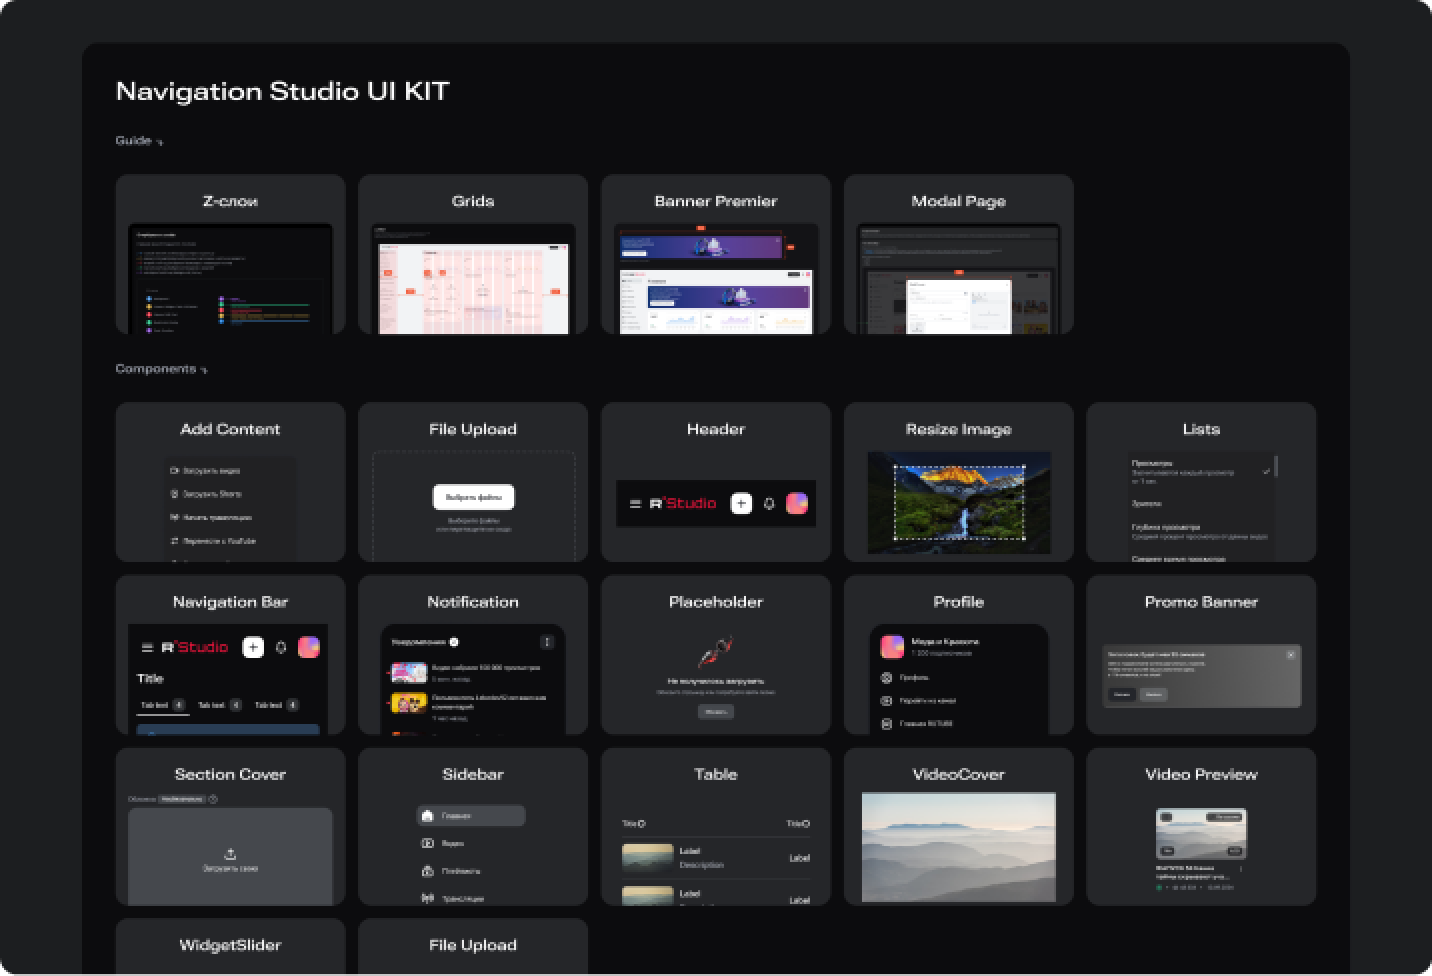
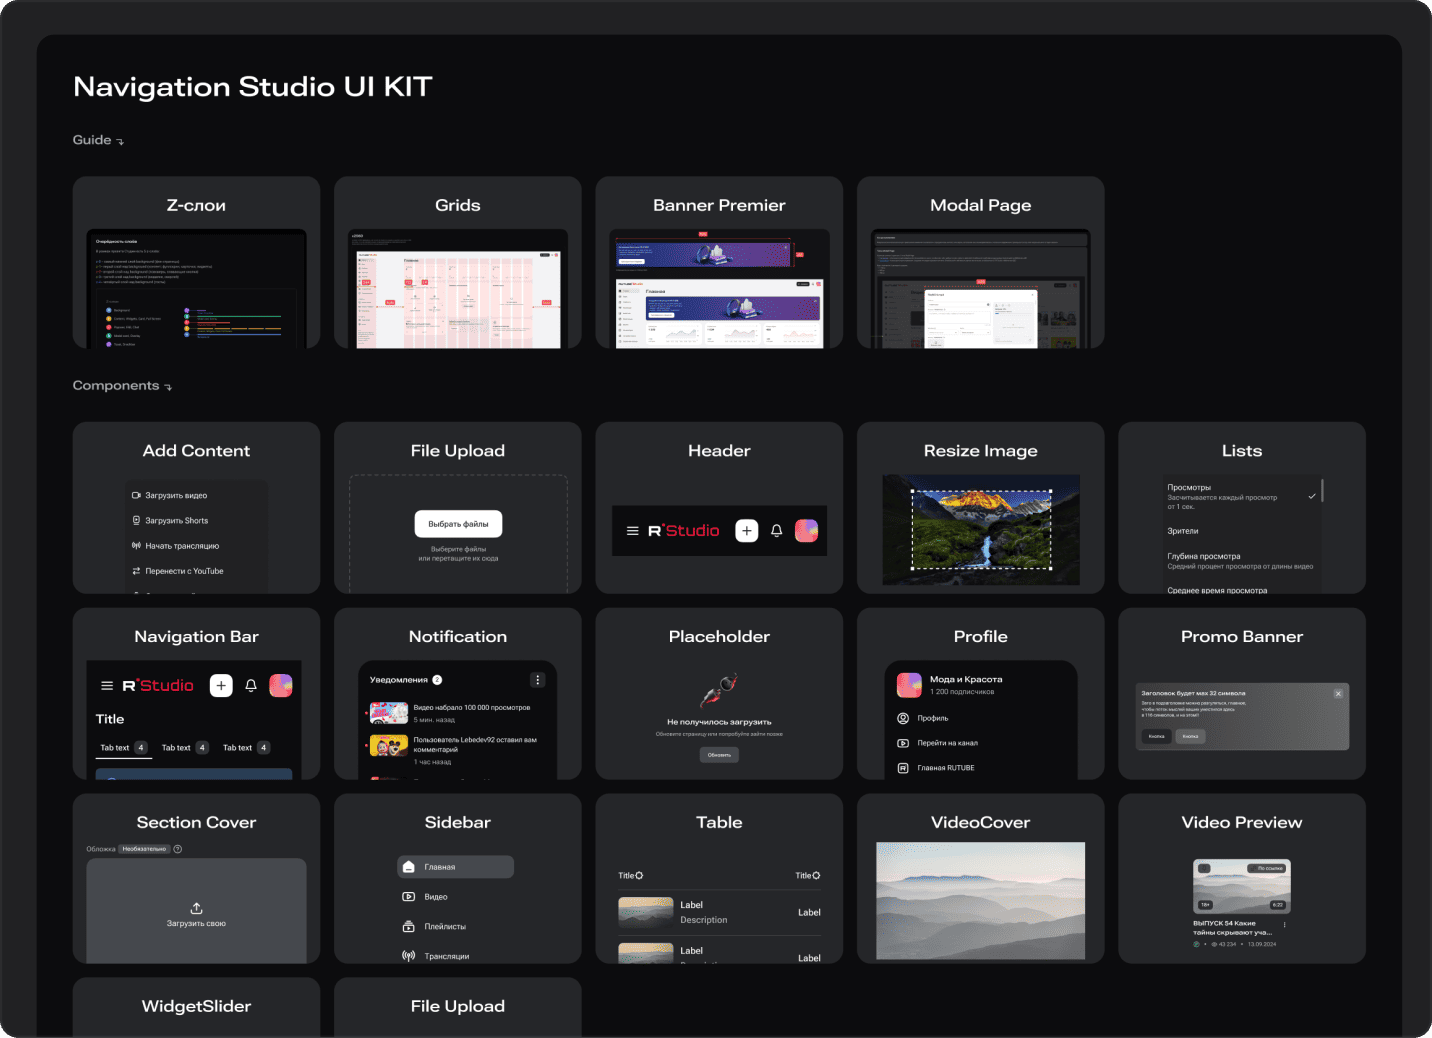
описание изменений

diff --git a/src/components/lightbox/LightboxOverlay.tsx b/src/components/lightbox/LightboxOverlay.tsx
@@ -3,6 +3,7 @@
 import {
   useCallback,
   useEffect,
+  useLayoutEffect,
   useRef,
   useState,
   type CSSProperties,
@@ -22,7 +23,8 @@ const BACKDROP_OPEN_MS = 400; // delay + duration ≈ OPEN_MS finish
 const BACKDROP_CLOSE_MS = 320;
 const ZOOM_RESET_MS = 220;
 const MAX_ZOOM = 3;
-const VIEW_PAD = 24;
+/** Opened image fits within this fraction of the viewport (not the thumb). */
+const VIEW_FIT = 0.92;
 
 type Phase = "opening" | "open" | "closing";
 
@@ -39,10 +41,11 @@ function isCoarsePointer() {
   return window.matchMedia("(pointer: coarse)").matches;
 }
 
+/** Largest box of `src` aspect that fits in 92vw × 92vh, centered. */
 function containInViewport(srcW: number, srcH: number) {
-  const maxW = window.innerWidth - VIEW_PAD * 2;
-  const maxH = window.innerHeight - VIEW_PAD * 2;
-  const aspect = srcW / srcH;
+  const maxW = window.innerWidth * VIEW_FIT;
+  const maxH = window.innerHeight * VIEW_FIT;
+  const aspect = srcW / Math.max(srcH, 0.0001);
   let width = maxW;
   let height = width / aspect;
   if (height > maxH) {
@@ -100,8 +103,9 @@ export function LightboxOverlay({ origin, onClosed }: LightboxOverlayProps) {
   const [dragging, setDragging] = useState(false);
   const [mounted, setMounted] = useState(false);
   const backdropDelayRef = useRef(0);
+  const openTimerRef = useRef(0);
 
-  useEffect(() => {
+  useLayoutEffect(() => {
     setMounted(true);
   }, []);
 
@@ -112,8 +116,8 @@ export function LightboxOverlay({ origin, onClosed }: LightboxOverlayProps) {
     panRef.current = pan;
   }, [pan]);
 
-  // Open animation + scroll lock
-  useEffect(() => {
+  // Open animation + scroll lock (layout effect: size before first paint)
+  useLayoutEffect(() => {
     reducedRef.current = prefersReducedMotion();
     mobileRef.current = isCoarsePointer();
 
@@ -142,18 +146,24 @@ export function LightboxOverlay({ origin, onClosed }: LightboxOverlayProps) {
     const target = containInViewport(origin.rect.width, origin.rect.height);
     targetRef.current = target;
 
+    const baseShell = {
+      position: "fixed" as const,
+      left: target.left,
+      top: target.top,
+      width: target.width,
+      height: target.height,
+      maxWidth: "92vw",
+      maxHeight: "92vh",
+      transformOrigin: "center center" as const,
+      zIndex: 1,
+    };
+
     if (reducedRef.current) {
       setShellStyle({
-        position: "fixed",
-        left: target.left,
-        top: target.top,
-        width: target.width,
-        height: target.height,
+        ...baseShell,
         borderRadius: 0,
-        transform: "translate3d(0,0,0) scale(1)",
-        transformOrigin: "center center",
-        overflow: "hidden",
-        zIndex: 1,
+        transform: "none",
+        overflow: "visible",
       });
       setBackdropTransition("none");
       setBackdropOn(true);
@@ -164,33 +174,39 @@ export function LightboxOverlay({ origin, onClosed }: LightboxOverlayProps) {
         `opacity ${BACKDROP_OPEN_MS}ms ${BACKDROP_EASING}`,
       );
       setShellStyle({
-        position: "fixed",
-        left: target.left,
-        top: target.top,
-        width: target.width,
-        height: target.height,
+        ...baseShell,
         borderRadius: origin.borderRadius,
         transform: `translate3d(${dx}px, ${dy}px, 0) scale(${sx}, ${sy})`,
-        transformOrigin: "center center",
         transition: "none",
         willChange: "transform, border-radius",
         overflow: "hidden",
-        zIndex: 1,
       });
 
       requestAnimationFrame(() => {
         requestAnimationFrame(() => {
           // Image leads; backdrop follows after a short beat.
-          setShellStyle((prev) => ({
-            ...prev,
+          setShellStyle({
+            ...baseShell,
             borderRadius: 0,
             transform: "translate3d(0,0,0) scale(1)",
             transition: `transform ${OPEN_MS}ms ${EASING}, border-radius ${OPEN_MS}ms ${EASING}`,
-          }));
+            willChange: "transform, border-radius",
+            overflow: "hidden",
+          });
           backdropDelayRef.current = window.setTimeout(() => {
             setBackdropOn(true);
           }, BACKDROP_OPEN_DELAY_MS);
-          window.setTimeout(() => setPhase("open"), OPEN_MS);
+          openTimerRef.current = window.setTimeout(() => {
+            // Pin final open layout to viewport fit (no leftover FLIP transform).
+            setShellStyle({
+              ...baseShell,
+              borderRadius: 0,
+              transform: "none",
+              transition: "none",
+              overflow: "visible",
+            });
+            setPhase("open");
+          }, OPEN_MS);
         });
       });
     }
@@ -200,6 +216,7 @@ export function LightboxOverlay({ origin, onClosed }: LightboxOverlayProps) {
       document.removeEventListener("wheel", blockScroll, true);
       document.removeEventListener("touchmove", blockScroll, true);
       window.clearTimeout(backdropDelayRef.current);
+      window.clearTimeout(openTimerRef.current);
       if (origin.sourceId) {
         document
           .querySelector(`[data-lightbox-id="${origin.sourceId}"]`)
@@ -260,6 +277,8 @@ export function LightboxOverlay({ origin, onClosed }: LightboxOverlayProps) {
       top: target.top,
       width: target.width,
       height: target.height,
+      maxWidth: "92vw",
+      maxHeight: "92vh",
       borderRadius: 0,
       transform: "translate3d(0,0,0) scale(1)",
       transformOrigin: "center center",
@@ -310,8 +329,11 @@ export function LightboxOverlay({ origin, onClosed }: LightboxOverlayProps) {
 
   const clampPan = useCallback((z: number, x: number, y: number) => {
     const t = targetRef.current;
-    const maxX = ((z - 1) * t.width) / 2;
-    const maxY = ((z - 1) * t.height) / 2;
+    // Pan bounds vs the open (viewport-fitted) image, not the thumb frame.
+    const scaledW = t.width * z;
+    const scaledH = t.height * z;
+    const maxX = Math.max(0, (scaledW - window.innerWidth) / 2);
+    const maxY = Math.max(0, (scaledH - window.innerHeight) / 2);
     return {
       x: Math.min(maxX, Math.max(-maxX, x)),
       y: Math.min(maxY, Math.max(-maxY, y)),
@@ -391,8 +413,10 @@ export function LightboxOverlay({ origin, onClosed }: LightboxOverlayProps) {
               : "default",
           width: "100%",
           height: "100%",
+          maxWidth: "none",
+          maxHeight: "none",
           display: "block",
-          objectFit: "cover",
+          objectFit: "contain",
           borderRadius: "inherit",
           userSelect: "none",
           WebkitUserSelect: "none",
@@ -402,8 +426,10 @@ export function LightboxOverlay({ origin, onClosed }: LightboxOverlayProps) {
       : {
           width: "100%",
           height: "100%",
+          maxWidth: "none",
+          maxHeight: "none",
           display: "block",
-          objectFit: "cover",
+          objectFit: "contain",
           borderRadius: "inherit",
           pointerEvents: "none",
         };

diff --git a/src/components/lightbox/ZoomableImage.tsx b/src/components/lightbox/ZoomableImage.tsx
@@ -50,10 +50,15 @@ export function ZoomableImage({
     const rect = img.getBoundingClientRect();
     if (rect.width < 2 || rect.height < 2) return;
 
-    const src =
-      img.currentSrc ||
-      img.src ||
-      (typeof imageProps.src === "string" ? imageProps.src : "");
+    const propSrc =
+      typeof imageProps.src === "string"
+        ? imageProps.src
+        : imageProps.src &&
+            typeof imageProps.src === "object" &&
+            "src" in imageProps.src
+          ? String(imageProps.src.src)
+          : "";
+    const src = propSrc || img.currentSrc || img.src;
     if (!src) return;
 
     const radiusHost = current.parentElement ?? current;